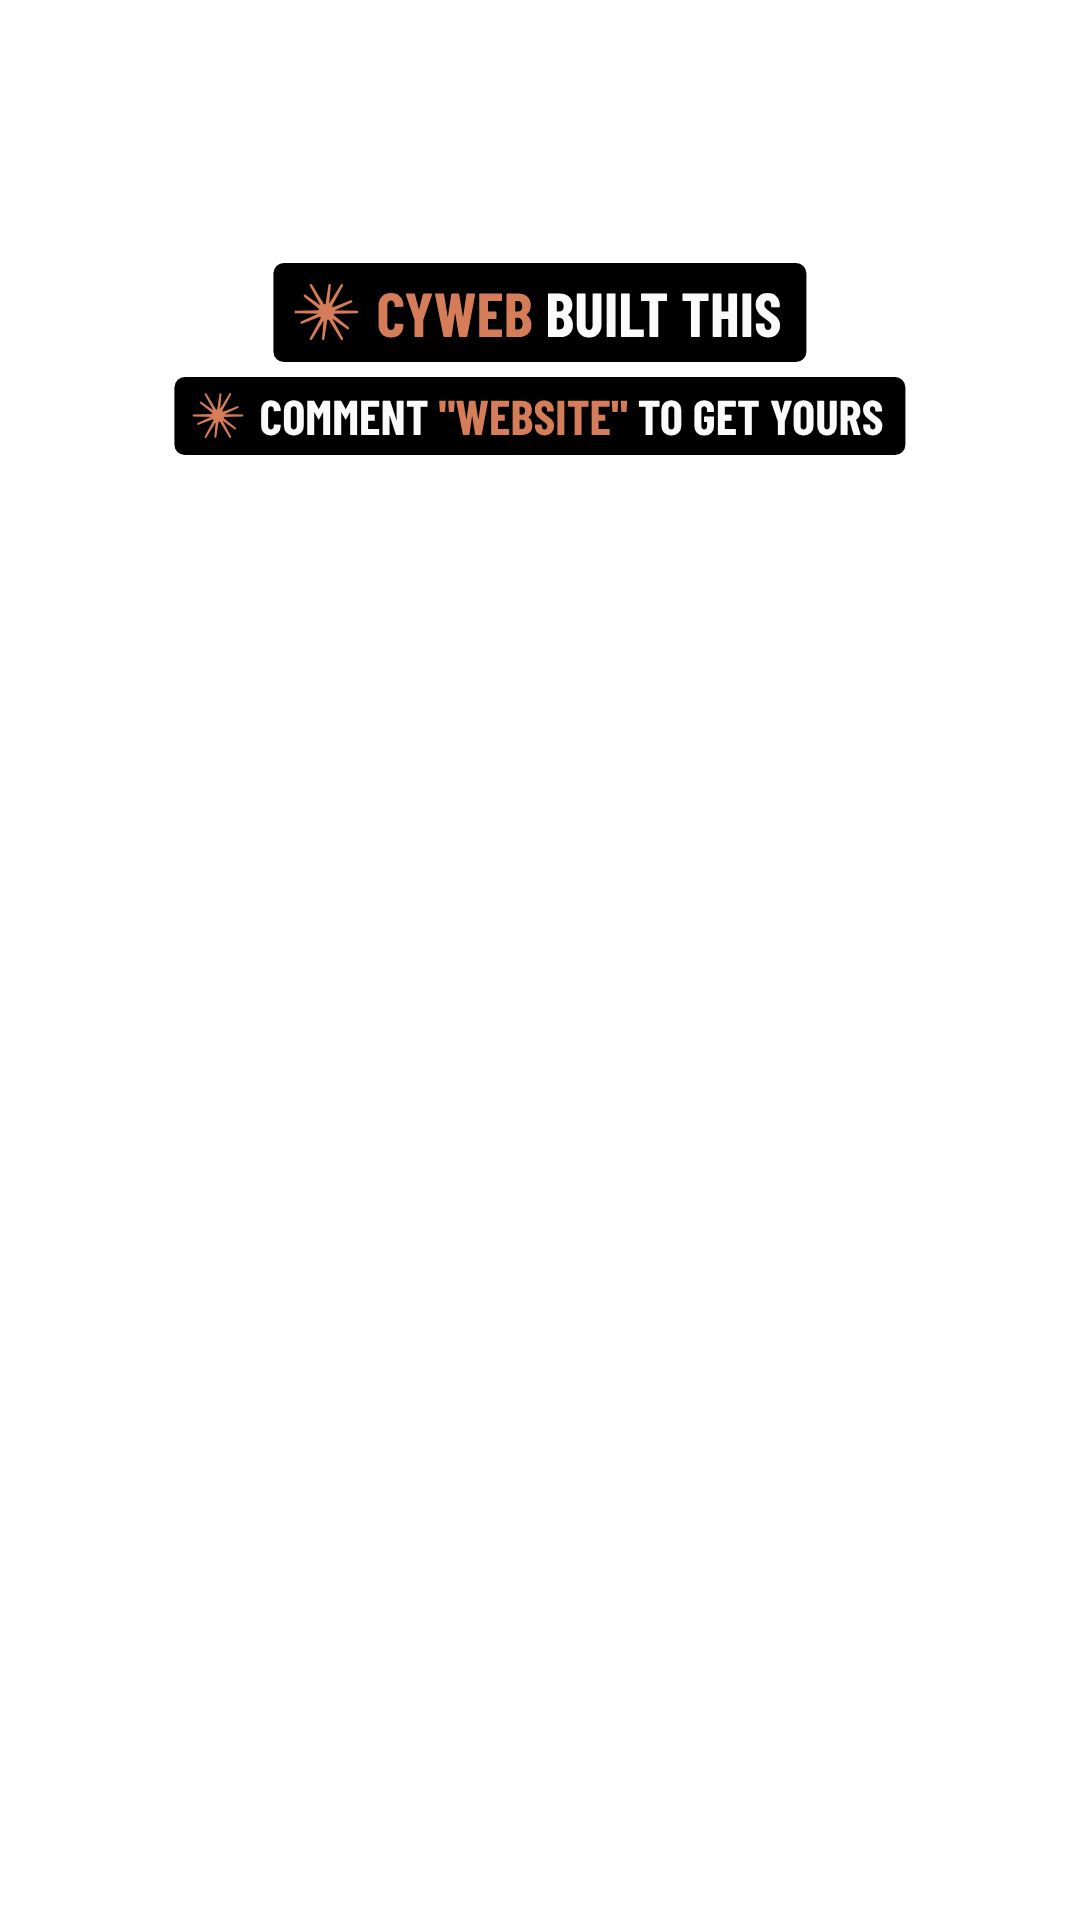
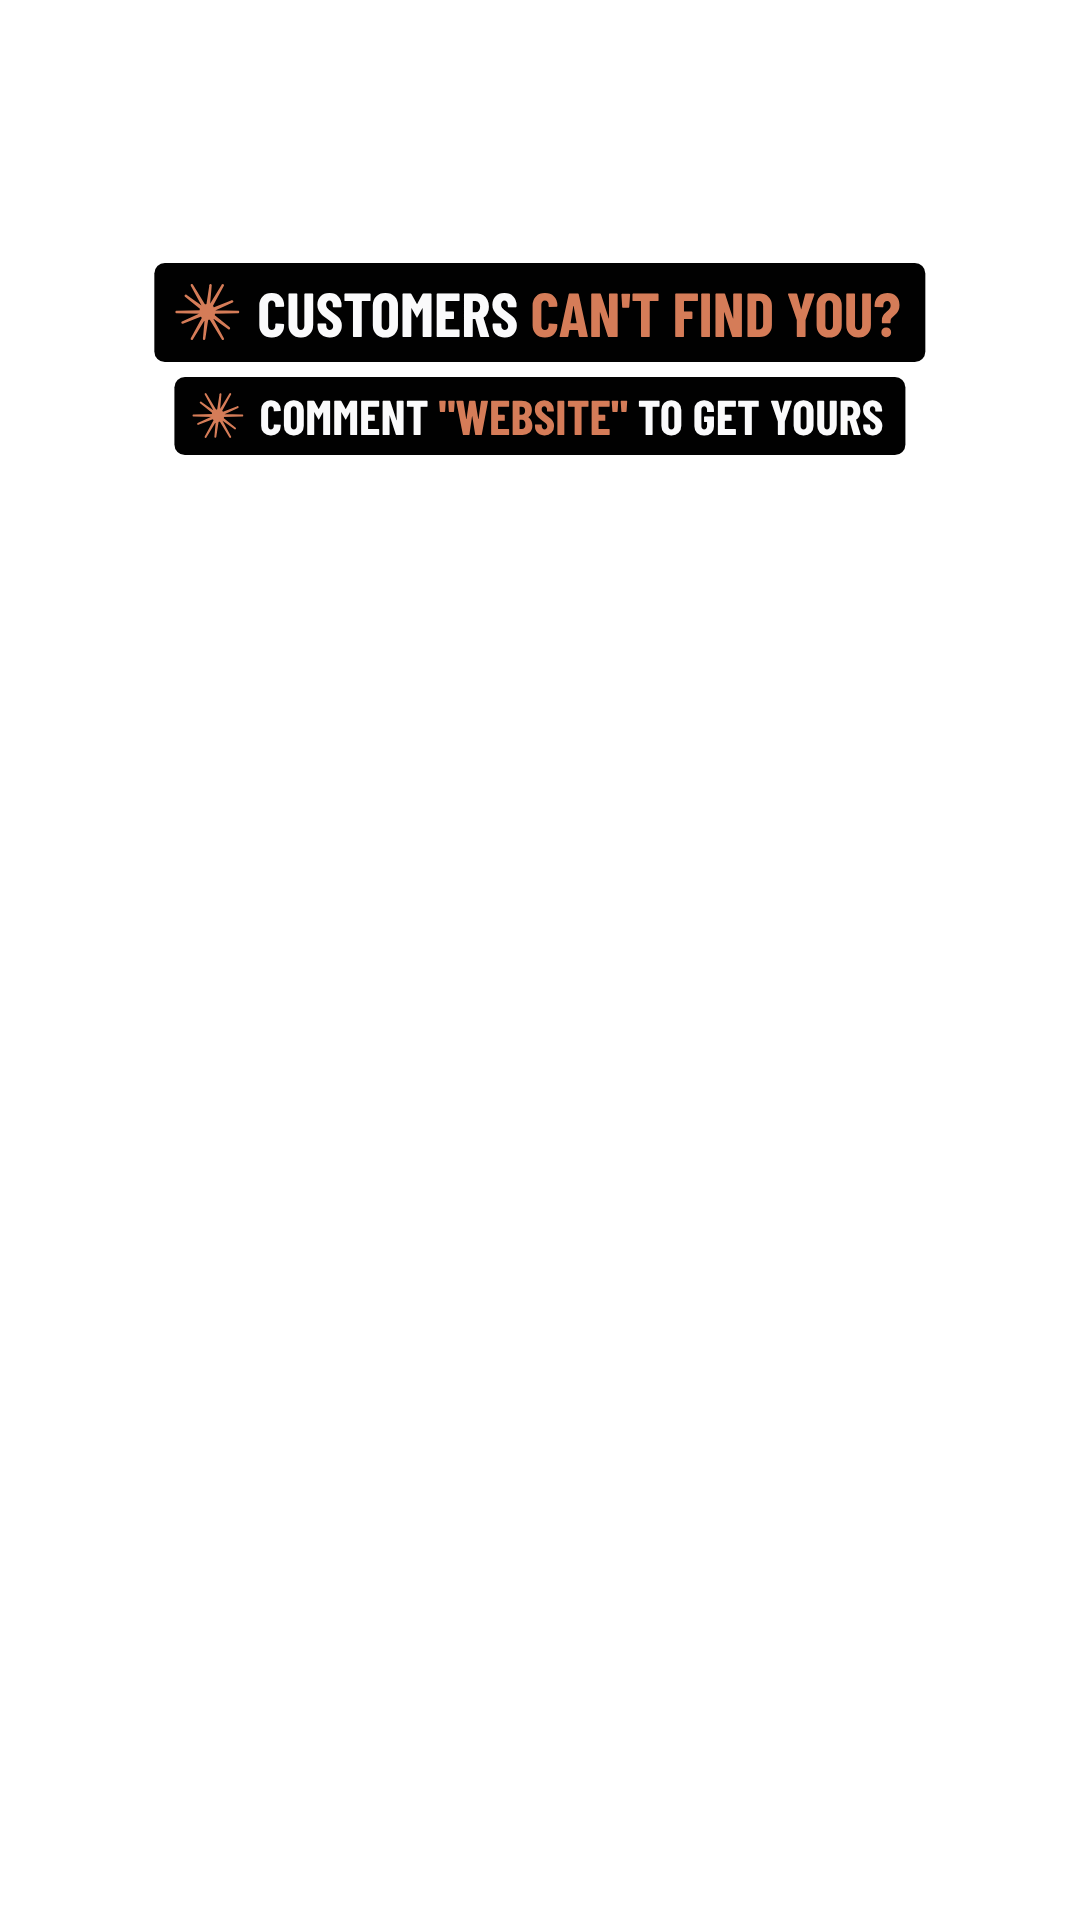
Ad copy: problem hook label, 'Get Found', cywebdev.com on the end card
Claude-Session: https://claude.ai/code/session_01MYk2U9H4xZhrhfSxDmNM3V

Changed region(s): [[0.1222, 0.125, 0.8556, 0.1875]]

diff --git a/reels/teaser/film/index.html b/reels/teaser/film/index.html
@@ -134,7 +134,7 @@ canvas#glow{position:absolute;inset:0}
   </div></div>
 
   <!-- 4: invite -->
-  <div class="layer" id="s3"><div class="line" id="invite" style="font-size:64px;font-weight:400"><span class="w" id="iA">Just</span> <span class="w" id="iB">Ask</span></div></div>
+  <div class="layer" id="s3"><div class="line" id="invite" style="font-size:64px;font-weight:400"><span class="w" id="iA">Get</span> <span class="w" id="iB">Found</span></div></div>
 
   <!-- 5: tunnel -->
   <div id="tunnelWrap"><div id="tunnel">
@@ -143,7 +143,7 @@ canvas#glow{position:absolute;inset:0}
     <div class="wall" id="wR"><div class="phone" id="phR"><div class="glass-in" data-screen="clinic"></div></div></div>
     <div class="wall" id="wB"><div class="phone" id="phB"><div class="glass-in" data-screen="calendar"></div></div></div>
   </div></div>
-  <div class="layer" id="s4"><div class="line" id="payA" style="font-size:44px">Just Ask</div><div class="line" id="payB" style="font-size:60px"><span class="w">Get</span> <span class="w">More</span> <span class="w">Bookings</span></div></div>
+  <div class="layer" id="s4"><div class="line" id="payA" style="font-size:44px">Get Found</div><div class="line" id="payB" style="font-size:60px"><span class="w">Get</span> <span class="w">More</span> <span class="w">Bookings</span></div></div>
   <div id="whipWrap"><div id="whip"><div class="phone" id="phW"><div class="glass-in" data-screen="calendar"></div></div></div></div>
 
   <!-- 6: bar -->
@@ -154,7 +154,7 @@ canvas#glow{position:absolute;inset:0}
   <div class="layer" id="s6"><div class="line" id="close" style="font-size:64px;font-weight:500"><span class="w" id="cA">Your</span> <span class="w" id="cB">Business</span> <span class="w" id="cC">Online</span></div></div>
   <img id="logo" src="img/cy-mark-light.png">
   <div id="white"></div>
-  <img id="logoEnd" src="img/cyweb-logo-full.png">
+  <img id="logoEnd" src="img/cyweb-logo-full.png"><div id="url" style="position:absolute;left:0;top:0;opacity:0;font-family:Inter;font-weight:600;font-size:64px;color:#0b2a66;letter-spacing:-.01em;white-space:nowrap">cywebdev.com</div>
 
   <svg id="cursor" viewBox="0 0 72 80"><path d="M6 5 L64 40 L30 46 L14 74 Z" fill="rgba(255,255,255,.10)" stroke="rgba(255,255,255,.95)" stroke-width="3.5" stroke-linejoin="round"/></svg>
 </div>

diff --git a/reels/teaser/desk/labels.html b/reels/teaser/desk/labels.html
@@ -11,7 +11,7 @@ html,body{width:1080px;height:1920px;background:transparent;overflow:hidden}
 .acc{color:#d57c58}
 svg{flex:none}
 </style></head><body>
-<div class="box b1" id="b1"><svg width="64" height="64" viewBox="-32 -32 64 64"><g id="spark1"></g></svg><span><span class="acc">CYWEB</span> BUILT THIS</span></div>
+<div class="box b1" id="b1"><svg width="64" height="64" viewBox="-32 -32 64 64"><g id="spark1"></g></svg><span>CUSTOMERS <span class="acc">CAN'T FIND YOU?</span></span></div>
 <div class="box b2" id="b2"><svg width="51" height="51" viewBox="-32 -32 64 64"><g id="spark2"></g></svg><span>COMMENT <span class="acc">"WEBSITE"</span> TO GET YOURS</span></div>
 <script>
 // 12-ray spark, rebuilt as a vector

diff --git a/reels/teaser/film/film.js b/reels/teaser/film/film.js
@@ -304,6 +304,8 @@ blurKeys([logo], [[1, 10], [329, 10], [330, 4], [331, 1], [332, 0]]);
 tl.to(white, { opacity: 1, duration: F(349) - F(347), ease: 'power2.in' }, F(347));
 gsap.set(logoEnd, { width: 470, height: 470 * 934 / 1172, xPercent: -50, yPercent: -50, x: X(637), y: X(361), opacity: 0 });   // full logo + tagline
 tl.set(logoEnd, { opacity: 1 }, F(349));
+const url = $('url'); gsap.set(url, { xPercent: -50, x: X(637), y: X(361) + 230, opacity: 0, filter: 'blur(10px)' });
+tl.to(url, { opacity: 1, filter: 'blur(0px)', duration: F(354) - F(349), ease: 'expo.out' }, F(349));   // end card: where to go
 tl.set(logo, { opacity: 0 }, F(349));
 
 // ---------- seek API for the renderer ----------

diff --git a/reels/teaser/README.md b/reels/teaser/README.md
@@ -12,19 +12,19 @@ A keynote-style screen film on a monitor in a desk shot, built in code and rende
 | Title + icon | "With CYWEB Websites", CY logo on a glass app icon |
 | Panel | What CYWEB does: Websites · Photos · Videos · Bookings, plus WhatsApp, Google Maps and "Your business"; cywebdev.com and "Local businesses" along the bottom; cursor clicks the CYWEB logo |
 | Phone tunnel | Four sites like the ones CYWEB builds: a café (Book a table, WhatsApp us, Google stars, menu, map), a salon (Book online, free times), a clinic (Call now, Book a visit, services, hours), a booking calendar |
-| Line change | "Just Ask" → "Get More Bookings" |
+| Line change | "Get Found" → "Get More Bookings" |
 | Whip | The booking site ("Book your visit") flies past the lens |
 | Bar | Counts to 100% |
-| Close | "Your Business Online", then the CYWEB mark; end card: full CYWEB logo with "Websites that help local businesses grow" |
+| Close | "Your Business Online", then the CYWEB mark; end card: full CYWEB logo with "Websites that help local businesses grow" and cywebdev.com |
 
 ## Lines
 | Slot | Reference | CYWEB |
 |---|---|---|
 | Intro (With + 2-word name) | With Apple Intelligence | With CYWEB Websites |
-| Invite (2 words) | Just Ask | Just Ask |
+| Invite (2 words) | Just Ask | Get Found |
 | Payoff (3 words) | See The Magic | Get More Bookings |
 | Closing (2 + 1 words) | Pro Workflow / Unleashed | Your Business / Online |
-| Label 1 | OPUS 5.5 COOKED | CYWEB BUILT THIS (accent: reference orange #D57C58) |
+| Label 1 (hook) | OPUS 5.5 COOKED | CUSTOMERS CAN'T FIND YOU? (accent: reference orange #D57C58) |
 | Label 2 | COMMENT "CLAUDE" FOR FULL GUIDE | COMMENT "WEBSITE" TO GET YOURS |
 
 ## Stand-ins still in use
@@ -45,6 +45,8 @@ python3 tools/audio.py && ffmpeg -i out/audio.wav -af loudnorm=I=-14:TP=-1 out/a
 ```
 
 ## Caption
-Your business, online. CYWEB builds websites for local businesses in Cyprus: bookings, WhatsApp, Google Maps, plus photos and videos that show you at your best.
+Customers can't find you? Let's fix that.
+CYWEB builds websites for local businesses in Cyprus, with online bookings, WhatsApp, Google Maps, and photos and videos that show you at your best.
 Comment "WEBSITE" and we'll show you how yours could look.
+cywebdev.com
 CYWEB team

diff --git a/reels/teaser/DIFF.md b/reels/teaser/DIFF.md
@@ -48,3 +48,6 @@ The reference room was only a match target; this round the shot moves to its own
 ### Round 5: modern, calm workspace
 19. Keyboard: slim space-grey aluminium case, low-profile caps with legends (was a chunky walnut board). Mouse: glossy white shell on an aluminium base.
 20. Desk: grey felt desk mat, ceramic mug with coffee, snake plant in a matte pot; lighter oak slats; soft daylight from the left with warm lamp. Camera and monitor unchanged, so the screen corners and the film timing are identical.
+
+### Round 6: ad copy
+21. Hook label "CUSTOMERS CAN'T FIND YOU?" (problem first) replaces "CYWEB BUILT THIS"; invite "Get Found" replaces "Just Ask"; end card adds cywebdev.com. Story: problem → CYWEB websites → what we do → Get Found → real sites → Get More Bookings → Your Business Online → cywebdev.com.
